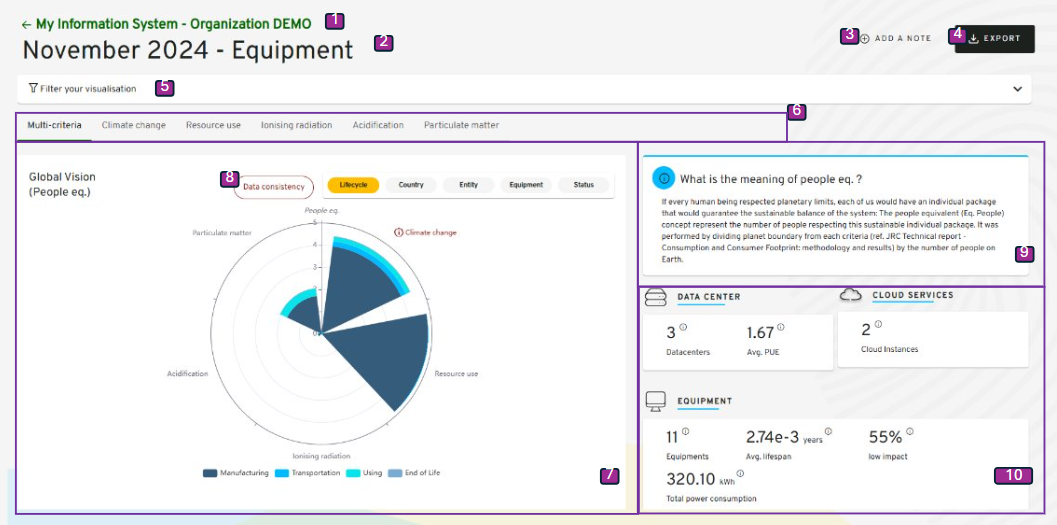
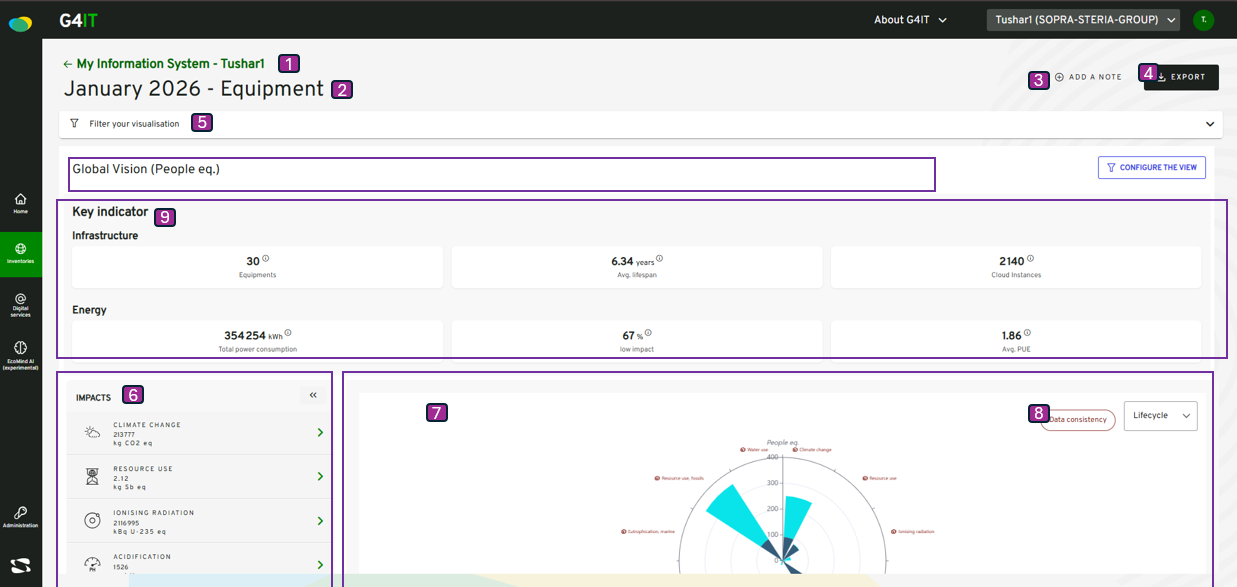
feat(1963): new inventory documentation

diff --git a/services/documentation/content/2-functional-documentation/use_cases/uc_inventory/uc5_visualize_equipment_footprint.md b/services/documentation/content/2-functional-documentation/use_cases/uc_inventory/uc5_visualize_equipment_footprint.md
@@ -81,8 +81,7 @@ Step5-->|New filters selected|Step6[View is updated according to the filters]
 | 6         |                            | Criteria selection                              |                  | tab    |                                                                                                                                                                                                                                                                                                                                                                                                |
 | 7         |                            | Graphical visualization                         |                  | group  | Each pie chart provides an overall view of the impact of the information system according to the selected **criteria**.                                                                                                                                                                                                                                                                        |
 | 8         |                            |                                                 | Data Consistency | button | <li><u>_action rules_</u>: Click to view graph of data consistency for all criteria. See [Global concepts/ Data consistency](../../global_concepts/uc1_dataconsistency.md)</li>                                                                                                                                                                                                                |
-| 9         |                            | Context-sensitive help                          |                  | group  | **Context-sensitive help** specifies certain elements of the display.                                                                                                                                                                                                                                                                                                                          |
-| 10        |                            | Key indicators                                  |                  | group  | These **key indicators** contextualize the impacts observed and represent the main levers for action to reduce impacts.                                                                                                                                                                                                                                                                        |
+| 9         |                            | Key indicators                                  |                  | group  | These **key indicators** contextualize the impacts observed and represent the main levers for action to reduce impacts.                                                                                                                                                                                                                                                                        |
 
 {{% /expand %}}
 
@@ -98,18 +97,15 @@ Step5-->|New filters selected|Step6[View is updated according to the filters]
 | 2         |                            | Graph                  |                           | radar  | <li><u>_initialization rules_</u>:The axes of the radar correspond of the criteria selected for inventory for the last estimate. Value based on the selected filters.                              |
 | 3         |                            | Legend                 |                           | list   | <li><u>_initialization rules_</u>: Items are the values available for the selected filter for the inventory. <br>Each item is clickable and filter the graph. Value based on the selected filters. |
 | 4         |                            | Data consistency       |                           | button | <li><u>_action rules_</u>: Click to view graph of data consistency for all criteria. See [Global concepts/ Data consistency](../../global_concepts/uc1_dataconsistency.md)</li>                    |
-| 5         |                            | Context-sensitive help |                           | group  | **Context-sensitive help** specifies certain elements of the display.                                                                                                                              |
 |           | Key indicators             |                        |                           |        |                                                                                                                                                                                                    |
-|           |                            | Data center            |                           |        |                                                                                                                                                                                                    |
-| 6         |                            |                        | Number of datacenters     | label  |                                                                                                                                                                                                    |
-| 7         |                            |                        | Avg. PUE                  | label  |                                                                                                                                                                                                    |
-|           |                            | Cloud Services         |                           |        |                                                                                                                                                                                                    |
-| 8         |                            |                        | Number of Cloud Instances | label  |                                                                                                                                                                                                    |
-|           |                            | Equipment              |                           |        |                                                                                                                                                                                                    |
-| 9         |                            |                        | Number of equipments      | label  |                                                                                                                                                                                                    |
-| 10        |                            |                        | Avg. lifespan             | label  | The Lifespan for each equipment is calculated as(date_retrait - date_achat)/365.0 years, where date_achat defaults to current date if empty.                                                       |
-| 11        |                            |                        | Low impact                | label  |                                                                                                                                                                                                    |
-| 12        |                            |                        | Total power consumption   | label  |                                                                                                                                                                                                    |
+|           |                            | Infrastructure         |                           |        |                                                                                                                                                                                                    |
+| 5         |                            |                        | Number of equipments      | label  |                                                                                                                                                                                                    |
+| 6         |                            |                        | Avg. lifespan             | label  | The Lifespan for each equipment is calculated as(date_retrait - date_achat)/365.0 years, where date_achat defaults to current date if empty.                                                       |
+| 7         |                            |                        | Number of Cloud Instances | label  |                                                                                                                                                                                                    |
+|           |                            | Energy                 |                           |        |                                                                                                                                                                                                    |
+| 8         |                            |                        | Total power consumption   | label  |                                                                                                                                                                                                    |
+| 9         |                            |                        | Low impact                | label  |                                                                                                                                                                                                    |
+| 10        |                            |                        | Avg. PUE                  | label  |                                                                                                                                                                                                    |
 
 {{% /expand %}}
 
@@ -125,20 +121,7 @@ Step5-->|New filters selected|Step6[View is updated according to the filters]
 | 2         |                            | Graph                               |                         | radar  | <li><u>_initialization rules_</u>:The axes of the radar correspond of the criteria selected for inventory for the last estimate. Value based on the selected filters.                              |
 | 3         |                            | Legend                              |                         | list   | <li><u>_initialization rules_</u>: Items are the values available for the selected filter for the inventory. <br>Each item is clickable and filter the graph. Value based on the selected filters. |
 | 4         |                            | Data consistency                    |                         | button | <li><u>_action rules_</u>: Click to view graph of data consistency for the selected criteria. See [Global concepts/ Data consistency](../../global_concepts/uc1_dataconsistency.md)</li>           |
-|           | Key indicators             |                                     |                         |        |                                                                                                                                                                                                    |
-|           |                            | _If Particulate matter is selected_ |                         |        |                                                                                                                                                                                                    |
-| 5         |                            |                                     | Particulate matter      | label  | <li><u>_initialization rules_</u>: Display the value of the impact for the selected criteria according the unit selected.                                                                          |
-| 6         |                            |                                     | Unit selection          | radio  | <li><u>_initialization rules_</u>: The possible values are Disease incident (selected by default) and People eq.                                                                                   |
-| 7         |                            |                                     | Fine particle emissions |        | <li><u>_initialization rules_</u>: **Context-sensitive help** concerning the Fine particle emissions.                                                                                              |
-|           |                            | _If Ionising radiation is selected_ |                         |        |                                                                                                                                                                                                    |
-|           |                            |                                     |                         |        |                                                                                                                                                                                                    |
-|           |                            | _If Acidification is selected_      |                         |        |                                                                                                                                                                                                    |
-|           |                            |                                     |                         |        |                                                                                                                                                                                                    |
-|           |                            | _If Climate change is selected_     |                         |        |                                                                                                                                                                                                    |
-|           |                            |                                     |                         |        |                                                                                                                                                                                                    |
-|           |                            | _If Resource use is selected_       |                         |        |                                                                                                                                                                                                    |
-|           |                            |                                     |                         |        |                                                                                                                                                                                                    |
-|           |                            | ...                                 |                         |        |                                                                                                                                                                                                    |
+| 5         |                            | Back to Multi Criteria View         | Particulate matter      | button  | <li><u>_initialization rules_</u>: On Click of this button multi-criteria view will be visible.                                                                         |
 
 {{% /expand %}}
 
